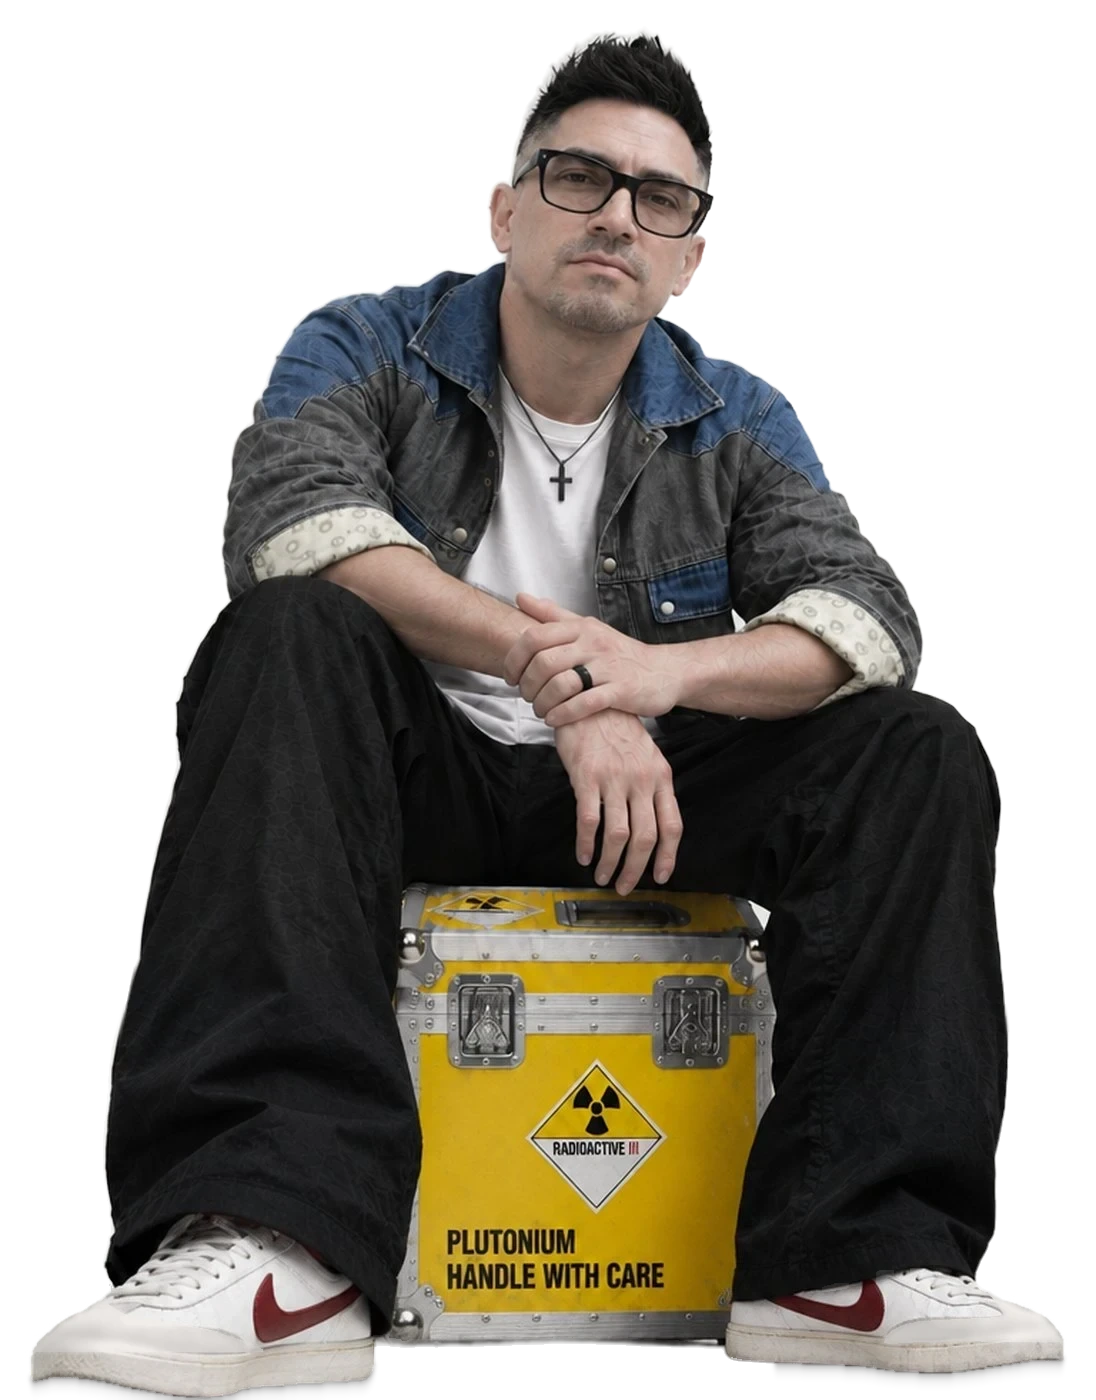
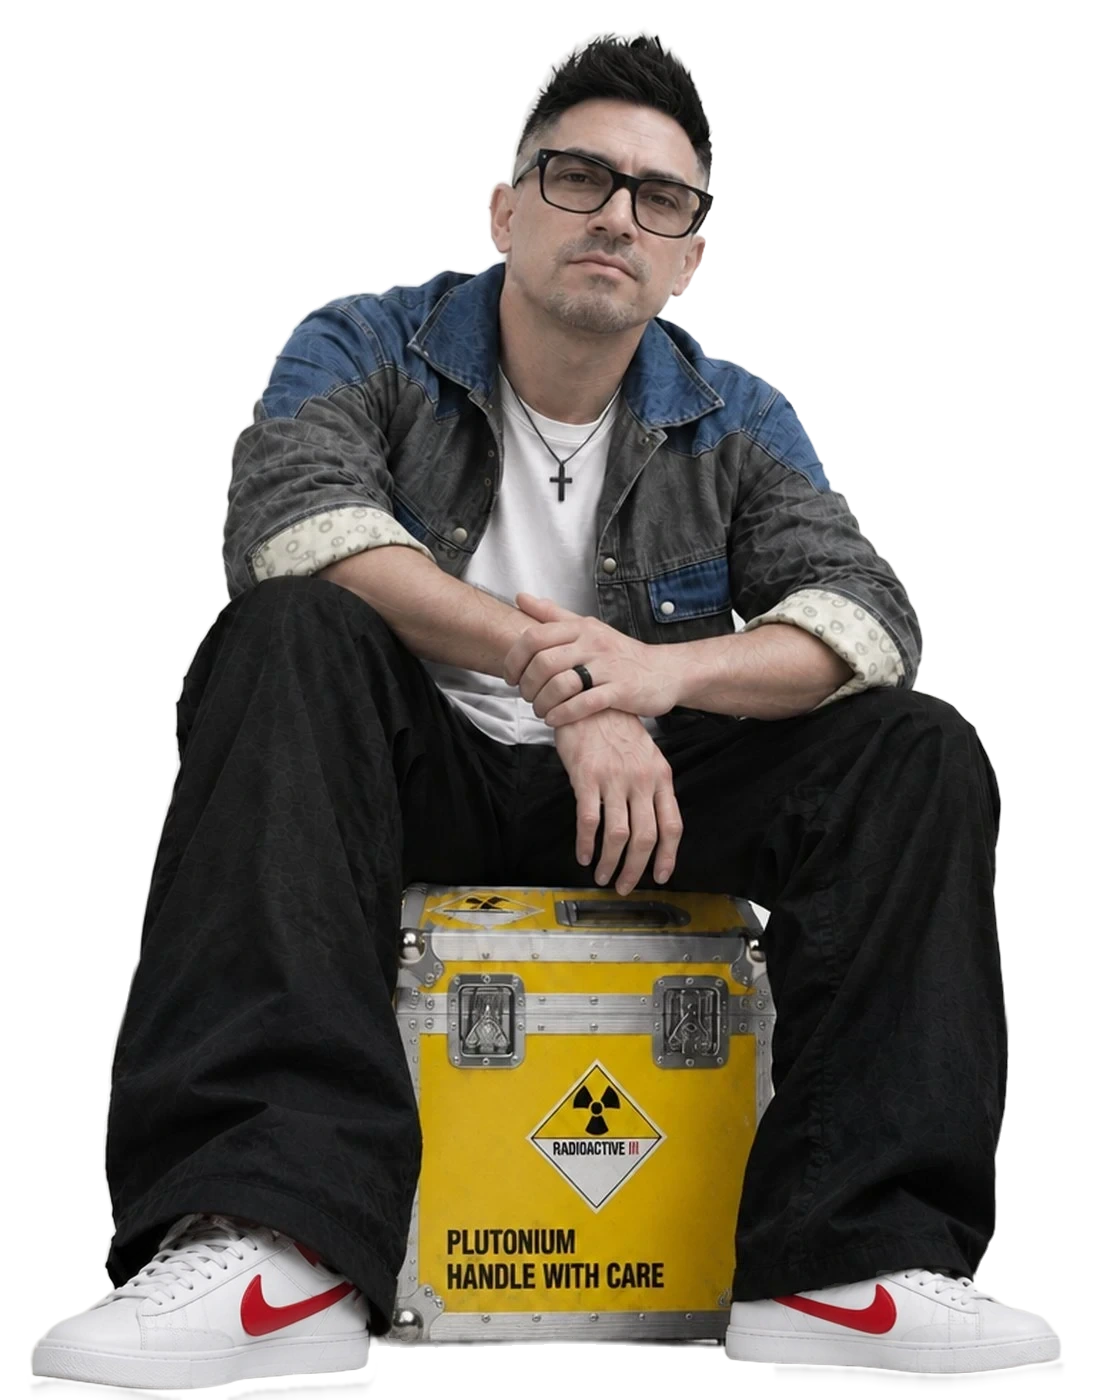
Shoes: Marty's Nike Bruins, generated into the hero and the POV
Start over from Charlie's photo of the real pair (assets/ref/
marty-nikes.jpg): white leather, red swoosh, red heel tab, white sole.
The image model put that shoe into the original hero shot; the new
shoes were registered to the cutout and swapped in (shoes only, case
and trousers untouched), with the same pixels in the hazmat cutout
under the suit's hems. The Meta-glasses POV is the model's full-frame
edit of the original lab shot, no patching. The share card is
re-rendered with the new hero.

Claude-Session: https://claude.ai/code/session_01W5NmLrmCfpinZRZs12n3aL

Changed region(s): [[0.031, 0.86, 0.3412, 1.0], [0.6515, 0.8907, 0.9927, 0.9829]]

diff --git a/README.md b/README.md
@@ -26,7 +26,7 @@ Subtle Back to the Future touches, all built on the film's numbers and mechanics
 - **88 mph**: a speedometer next to the timeline hint reads scroll speed. Hit 88 and twin fire trails streak across the timeline. Typing `8` `8` anywhere jumps to the timeline at 88.
 - **10.21.15**: a marker on the timeline axis at Oct 21, 2015 (hover: "Where we're going, we don't need roads.").
 - **Footer**: that line, quietly, in the legal row.
-- **Hero**: Charlie sits on the plutonium case in plain white Nikes with red swooshes like Marty's, in full colour, wearing a white low-cut tee, Marty's two-tone denim jacket (sleeves rolled to show the paisley lining) and a matte black cross chain (`assets/charlie-cutout.webp`, trail `charlie-trail-v2.webp`).
+- **Hero**: Charlie sits on the plutonium case in Marty's Nike Bruins (white leather, red swoosh, white sole), in full colour, wearing a white low-cut tee, Marty's two-tone denim jacket (sleeves rolled to show the paisley lining) and a matte black cross chain (`assets/charlie-cutout.webp`, trail `charlie-trail-v2.webp`).
 - **Suit up**: hover the figure (the silhouette itself, alpha hit-tested; tap on touch) and he morphs into the *COMING HOME (Odyssey)* avatar: yellow radiation suit, Sony Walkman held up, the same white Nikes, same pose on the same case (`assets/charlie-hazmat-cutout.webp`, same crop so the two overlay exactly). The suit drops over him head-to-toe like a costume (a soft wipe on a registered `@property` and a small settle) and lifts back off on hover-out. The avatar is registered to Charlie: hood warped onto his head (thin-plate spline), and the shoes and case below the knees are his own pixels, so nothing but the suit moves. Hovering the glasses LED keeps Charlie, so the Meta POV still works; the LED (on the frame's corner rivet) is hidden on the avatar, who has no glasses.
 - **Fire trails**: the hero's BUILDER tunnel is gone. In its place, on the same tilted floor plane, are the DeLorean's twin fire trails right after it jumps: quiet burning lines with low 3D sheets of flame (SVG-noise masks) flickering up off them. They only ignite (from under him toward the horizon) while the hazmat avatar is showing, and go out when he changes back. No animation under reduced motion.
 
